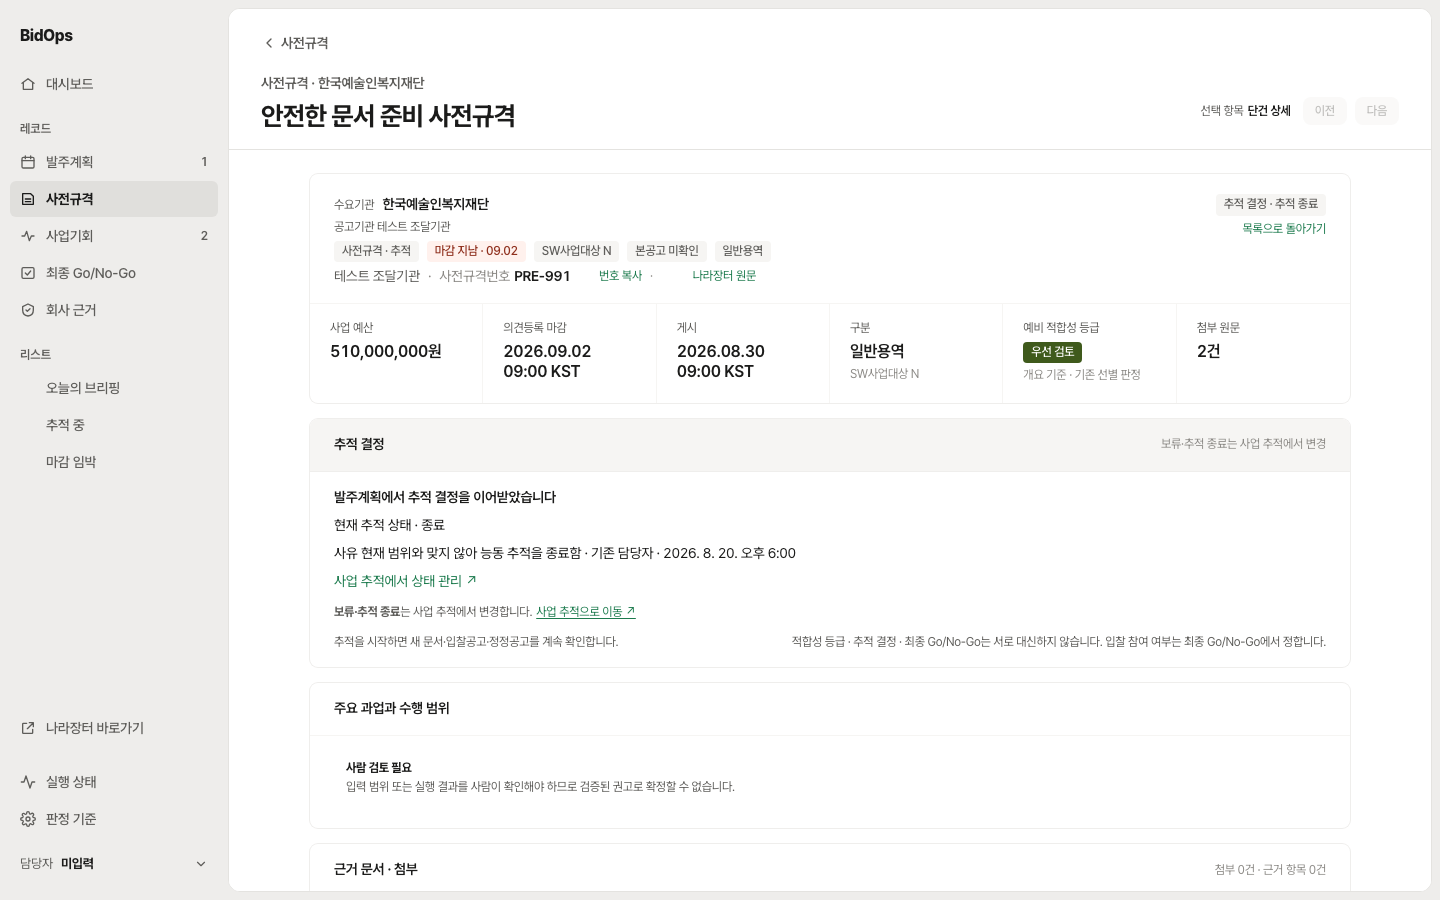
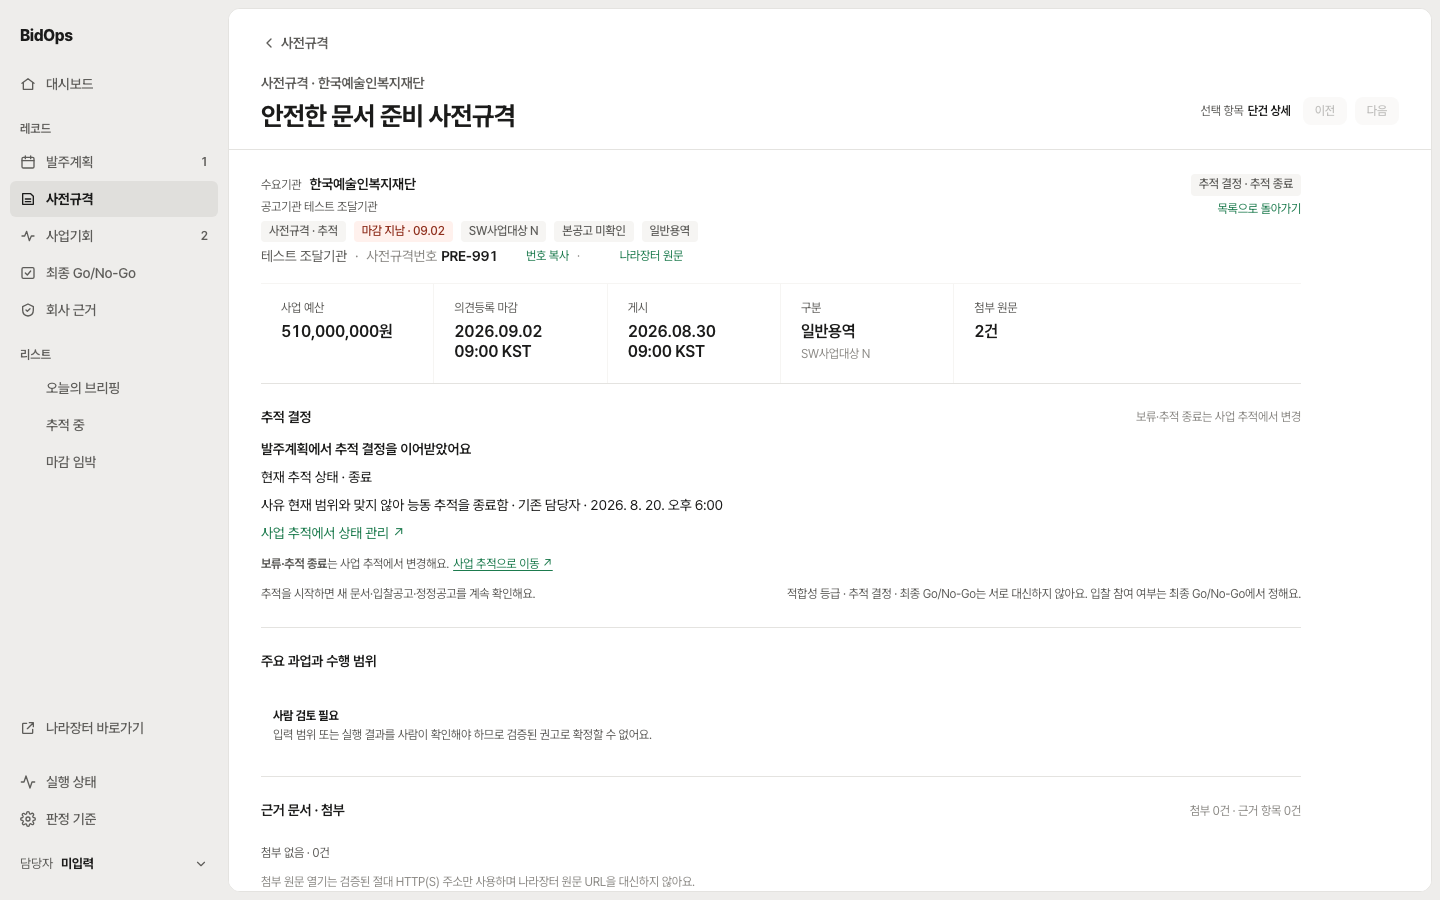
docs: ADR-0076 2026-11-20 follow-up (remaining screens, 해요체, collection status API, pixel baseline) and refreshed captures
ADR-0076 gains decision 10 and the pixel baseline record; the ADR index,
ui-spec header, status line and the mock-mode captures in
docs/1119_kstyle-shell/shots follow. Captures are mock-mode evidence only,
not quality or rollout evidence.

diff --git a/docs/tracking/decisions/0076-kstyle-panel-shell.md b/docs/tracking/decisions/0076-kstyle-panel-shell.md
@@ -1,7 +1,8 @@
 # 관리 화면 셸을 바탕 위 흰 패널 한 장과 패널 헤더로 바꾸고 중립색을 따뜻한 회색으로 개정한다
 
-- 상태: 채택 — 2026-11-19 사용자 승인("전부 승인, 권장안대로 진행"). 구현은 worktree에 미커밋으로 있고
-  pixel 기준선(linux)은 갱신하지 않았다. 품질·운영 활성화 근거가 아니다.
+- 상태: 채택 — 2026-11-19 사용자 승인("전부 승인, 권장안대로 진행"), 2026-11-20 후속 지시(나머지 화면·해요체·수집
+  기준일 API·pixel 기준선). 구현은 브랜치 `worktree-agent-a72925add1c17cfca`에 커밋돼 있고 main 병합·배포 전이다.
+  품질·운영 활성화 근거가 아니다.
 - 일자: 2026-11-19
 - 근거: 사용자 승인 최종 시안 4장 [`docs/1119_kstyle-shell/mockups/`](../../1119_kstyle-shell/mockups/)
   (`FinalBriefing`·`FinalOrderPlans`·`FinalOrderPlansDone`·`FinalOpportunity`, 인라인 style이 수치 정본)
@@ -50,14 +51,29 @@
    화면에 남는다. 패널 헤더 사실 줄은 옛 pill의 의미색(success·warning·error)을 그대로 쓴다.
 9. **문구.** 해요체, 문장형 제목, 주 버튼은 `~하기`(`추적 시작하기`, 넘기기는 `넘기기`). 값 없음/미확인/계산 불가/0,
    참조 실행·mock 표식, 부분 산출물 경고, 사람 결정 경계의 뜻은 바꾸지 않는다.
+10. **2026-11-20 후속(사용자 지시 "나머지 화면 안쪽과 문구까지").** 사전규격 목록은 발주계획과 같은 규칙이다 — 일괄
+    바는 고른 것이 있을 때만(목록 머리 체크박스가 `현재 페이지 전체 선택`), 목록 머리 한 줄(보기 이름·건수 · 정렬),
+    보기가 말해 주는 `미선택`은 행에서 숨김, 행 16/14px. 사전규격·사업기회·최종 Go/No-Go 상세 머리는 발주계획과 같은
+    단(위 28·옆 32, 제목 22px/700)이다. 사전규격 상세는 카드 더미 대신 구역 제목 줄과 옅은 선이고, 상세 안쪽 탭은
+    둥근 칸, 옛 강조 블록(왼쪽 굵은 선 + 색 채움)은 회색 채움 블록이다(경고·오류 알림은 의미색 그대로). 발주계획 결정
+    영역은 본문 담당자 입력 칸 대신 사이드바 담당자 칸을 연다. 사용자 문구는 화면·대화상자·토스트·빈 상태·오류 안내
+    전부 해요체다(서버가 준 문자열·계약 값은 그대로). 패널 헤더의 수집 상태는 서버 판정
+    `GET /api/daily-collection-status`([계약](../../contracts/lifecycle-rest.md))를 옮긴다.
 
 ## 결과
 
 - 바뀐 기존 규칙: ADR-0062 ⓒ(사업명·발주기관 같은 크기)는 발주계획에서 16/14px. ui-spec §4.1 "D-n 강조는 7일
   이내"는 "마감 전이면 강조". C-7 결정 버튼 이름은 `추적 시작하기`.
-- 기존 API로 채울 수 없는 시안 요소(발주계획·사업기회의 수집 기준일, 서버가 기록한 "오늘 정한" 결정 목록)는 넣지
-  않았다. `이 탭에서 정한 발주계획`은 이 탭에서 서버가 저장을 확인한 영수증만 sessionStorage에 모은 것이다.
-- pixel 기준선(`web/frontend/tests/pixel-screens.spec.ts-snapshots/`, linux)은 갱신하지 않았다.
+- 서버가 기록한 "오늘 정한" 결정 목록은 넣지 않았다. `이 탭에서 정한 발주계획`은 이 탭에서 서버가 저장을 확인한
+  영수증만 sessionStorage에 모은 것이다. 수집 기준일은 2026-11-20에 읽기 전용 API를 더해 발주계획·사전규격·사업기회
+  헤더에 그린다(migration 없음).
+- pixel 기준선(`web/frontend/tests/pixel-screens.spec.ts-snapshots/`, linux) 6장(bid-delta-changed·criteria·dashboard·
+  opportunities-list·order-plans-list·pre-specs-list)을 2026-11-20에 갈아 끼웠다. 사유: 이 ADR의 셸·패널 헤더·화면 정리와
+  해요체 문구. 승인자: 사용자(2026-11-20 지시 "pixel 기준선은 나머지 화면 수정 뒤 갱신"). 생성 환경: 일회용 컨테이너
+  `mcr.microsoft.com/playwright:v1.62.1-noble`(linux/amd64, Mac OrbStack 에뮬레이션, node v24.18.1, 컨테이너 전용
+  `npm ci`). 이전 기준선은 WSL2 linux(x86_64) 호스트에서 만들어졌으므로 생성 환경이 바뀌었다. 갱신 직후 같은
+  컨테이너에서 `npm run test:pixel` 7/7 통과. `deep-review-complete`는 2026-11-19 route가 내려가 대표 화면에서 빠졌고
+  기준 이미지는 그대로 남겼다.
 
 ## 대안
 

diff --git a/docs/tracking/status.md b/docs/tracking/status.md
@@ -16,7 +16,7 @@
 | RL-05 | 평가·사람 결정 절차 완료, **인수 reject**(10월 20일) | [RL-05](../validation-runs/2026-10-19-rl/RL-05/README.md). 판정 일치 3/10, 차단 조건 recall 0/7, 카드 일치 84/100이나 모델 카드 447개 모두 unknown |
 | RL-06·07 | `review`, 각각 0/4·0/6 STEP | [로드맵](../work/constitution/roadmap.md). 최적화·판정 UX 구현 전, 대조 품질 개선과 별개 |
 | RL-10 | 대조 규칙 v2(상주 장소·제외 분야 차단)·정책 v12 구현, 브랜치 `feat/rl03-compare-blockers`(2026-11-19, 미병합·미배포·DB import 없음) | [spec](../work/groups/RL/features/RL-10-compare-blockers/spec.md), [탐침 재생](../validation-runs/20261119-rl10-compare-blockers/README.md). 회사 근거 v4 그대로는 놓친 차단 0/7 그대로 — 구조화 회사 값 확인과 gold 재측정(승인 대상) 전이며 품질 근거 아님 |
-| 관리 화면 UI 재구성 | ADR-0076(2026-11-19 사용자 승인) 셸·패널 헤더·네 화면 재구성과 나머지 화면 정리 구현이 **미커밋 worktree**에 있다. pixel 기준선(linux) 미갱신, 미병합·미배포 | [ADR-0076](decisions/0076-kstyle-panel-shell.md), `docs/1119_kstyle-shell/`. 화면 변경이며 품질 합격·운영 활성화가 아님 |
+| 관리 화면 UI 재구성 | ADR-0076(2026-11-19 사용자 승인, 2026-11-20 후속) 셸·패널 헤더·전 화면 정리·해요체 문구와 읽기 전용 수집 기준일 API(`GET /api/daily-collection-status`)가 브랜치 `worktree-agent-a72925add1c17cfca`에 커밋돼 있다(main `906c737` 병합 포함, main 미병합·미배포). pixel 기준선(linux)은 이 브랜치에서 갱신 | [ADR-0076](decisions/0076-kstyle-panel-shell.md), `docs/1119_kstyle-shell/`. 화면 변경이며 품질 합격·운영 활성화가 아님 |
 | 미구현 | 입찰 delta 계산 worker, 첨부 실패·묶음 failed 재시작 화면, 인증/SSO | 문서 준비·Slack 경로·최종 결정 저장/REST까지 미구현인 것으로 확대하지 않음 |
 
 ### 상태 파일과 큐의 해석

diff --git a/docs/1016_rootlab-redefinition/ui-spec.md b/docs/1016_rootlab-redefinition/ui-spec.md
@@ -3,6 +3,11 @@
 - **2026-11-19 개정(ADR-0076, 사용자 승인):** 셸·패널 헤더·글자 단·중립색과 브리핑·발주계획·사업기회 레코드는
   최종 시안 `docs/1119_kstyle-shell/mockups/`가 정본이다. 아래 §1·§2·§3·§4.1의 값은 그 시안으로 바꿨고, 바뀌지 않은
   절(판정·제안서·회사 근거의 내용 규칙)은 그대로다.
+- **2026-11-20 후속(ADR-0076 결정 10, 사용자 지시):** 사전규격 목록은 발주계획과 같은 목록 규칙(일괄 바는 선택이 있을
+  때만, 머리 한 줄, 보기가 말해 주는 `미선택` 숨김, 행 16/14px), 사전규격·사업기회·Go/No-Go 상세 머리는 발주계획과 같은
+  단(위 28·옆 32, 제목 22px/700)이다. 발주계획 결정 영역에는 담당자 입력 칸이 없고 사이드바 담당자 칸을 연다. 사용자
+  문구는 전 화면 해요체(제목 마침표 없음)이고, 서버가 준 문자열은 그대로다. 발주계획·사전규격·사업기회 헤더의 수집
+  상태는 `GET /api/daily-collection-status`의 서버 판정이다.
 - 상태: 2026-10-16 사용자 확정 시안 v26을 구현 가능한 수준으로 고정한 명세. 기능 intent·spec·plan(`/sdlc:feature RL-0x`)은 이 문서를 화면 정본으로 인용한다. 시안 HTML 사본은 [`mockups/v26/`](mockups/v26/README.md).
 - 적용 범위: 브리핑·사업기회 레코드(활동·판정·제안서 탭)·회사 근거·Slack 메시지. 기존 화면(발주계획·사전규격·사업 추적·Go/No-Go·판정 기준·실행 상태)은 §1.4의 메뉴 재배치 외에는 바꾸지 않는다.
 - 지키는 것: 데스크톱 1280~1920 전용(ADR-0047), 테마 토큰만 읽고 화면 CSS에서 `--color-*`를 재정의하지 않음(ADR-0048), Astryx 컴포넌트 우선·레이아웃은 프로젝트 소유(ADR-0040), `unknown`을 부족으로 승격하지 않음(HP 계약 §7), 판정은 보조 의견이고 추적·Go/No-Go는 사람 결정.
